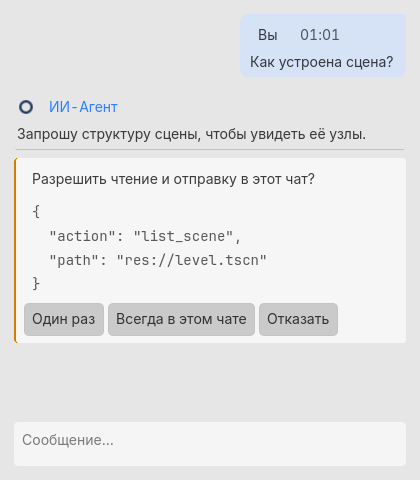
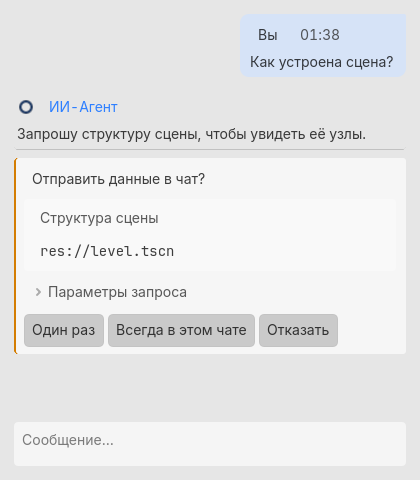
feat(editor): lead read requests with the operation and target

diff --git a/tests/py/live/test_panel_read_controls.py b/tests/py/live/test_panel_read_controls.py
@@ -40,7 +40,14 @@ func offer(id, pause=false):
     Consent.offer(self, {"chat_id": _current_chat_id, "id": id, "pause": pause, "action": {"action":"read_file","path":"res://hero.gd"}})
 func click(index):
     var card = _view._chat_container.get_child(-1)
-    assert("res://hero.gd" in card.find_child("RequestedAction", true, false).text)
+    assert(card.find_child("ReadTarget", true, false).text == "res://hero.gd")
+    var details = card.find_child("RequestedAction", true, false)
+    var toggle = card.find_child("ReadParameters", true, false)
+    assert(not details.visible)
+    var calls_before = http_request.calls.size()
+    toggle.button_pressed = true
+    assert(details.visible and JSON.parse_string(details.text).path == "res://hero.gd")
+    assert(http_request.calls.size() == calls_before)
     card.find_child("Choices", true, false).get_child(index).pressed.emit()
     _set_ui_busy(false)
     Consent.finish(self, true)

diff --git a/tests/py/panel_tf/source_inputs.py b/tests/py/panel_tf/source_inputs.py
@@ -140,12 +140,21 @@ D123_REVISIONS = {
 }
 
 
+D125_CONSENT = 'editor/native/agent_read_consent.gd'
+
+
 def revised_dock_fact(fact, current):
     prior = BUG_REGISTER_REVISIONS.get(fact['path'])
     if prior:
         if (fact['bytes'], fact['sha256']) != prior[:2]:
             raise ValueError('Pre-D123 start screen input drifted')
         fact = dict(fact, bytes=prior[2], sha256=prior[3])
+    if fact['path'] == D125_CONSENT:
+        old_size, old_sha, size, sha = D123_REVISIONS[D125_CONSENT]
+        if (fact['bytes'], fact['sha256']) != (old_size, old_sha):
+            raise ValueError('Original consent helper drifted')
+        return revised_bug_register_fact(dict(fact, bytes=size, sha256=sha), current, {D125_CONSENT: (
[1 lines of base64/hex data omitted]
     return revised_bug_register_fact(fact, current, D123_REVISIONS)
 
 

diff --git a/docs/WORKLOG.md b/docs/WORKLOG.md
@@ -303,3 +303,20 @@ D121 установлена; следующий шаг — отправить о
 
 Переоткрыть рабочий проект, начать диалог, затем открыть его по кнопке
 «Сохранённые чаты». Исправление истории (`85b28d1`) сохранено отдельно от вида панели.
+
+## D125 — проверка чтения по логу пользователя
+
+В `chat.txt` нашлись повторный `coin.gd` и неинформативная ошибка для каталога;
+исправлены оба случая. Запрос за концом файла остался успешной пустой страницей.
+Последнего медленного ответа в записи нет. На тестовых часах ответ с выделенным
+DONE до исправления завершался за 4,4 с, после — менее чем за 1,5 с. В отдельном
+Chrome длинный список с выделенным DONE прошёл проверку целостности; пропуск
+буквального префикса и 600 px необъяснимого отступа отклонены. Измерения без
+провайдера. Карточка чтения и раскрытие параметров проверены в настоящем Godot
+(3 теста). Журнал наблюдений: [расположение и поля](panel-diagnostics.md).
+
+`selfcheck` для `assistant.write`, `assistant.chat`, `project_text.read`: `ok` (unit/corpus: 43/4, 29/10, 38/35). Реальный CLI-клиент подтвердил подсказку для каталога и пустую страницу за EOF. Контракт (36 артефактов), безопасность, границы и размеры (706 файлов, два прежних предупреждения) проверены. EXE проверен на изолированном порту: 35 инструментов, чтение, предпросмотр без записи, штатная остановка.
+
+Совместный прогон browser/panel/channels/security, контракта навигации, фактов GDScript и transfer: 1545 passed, 2 skipped (Windows без права создания симлинков). В первом прогоне один тест диагностики подменял драйвер в устаревшем объекте модуля после replay; фикстура теперь использует тот же полный импорт, что шлюз. Исправление изоляции касается только тестов.
+
[1 lines of base64/hex data omitted]

diff --git a/docs/PROGRESS.md b/docs/PROGRESS.md
@@ -2,6 +2,8 @@
 
 ## Текущий статус (2026-11-27)
 
+- D125 установлен: исправлены повторы путей и подсказка для каталога, обновлена карточка разрешения. Воспроизведено лишнее ожидание при форматированном DONE. Установленный EXE сохранил [локальные измерения](panel-diagnostics.md) и восстановил чат после перезапуска на отдельном профиле. Следующее действие — сопоставить время следующей задержки в живом DeepSeek с `visible_done_ms` и `total_ms`.
+
 - D124 установлен: исправлен пустой [сохранённый диалог панели](porting/assistant.write.md). После полной остановки и повторного запуска EXE из сохранения вернулись запрос и ответ; проверено на отдельном профиле и локальном тестовом API. Старые пустые записи не перезаписываются миграцией.
 - Второй вариант панели D124: [«Мастерская проекта» — снимки из Godot](../.github/dock-preview/README.md). Чтобы увидеть её в проекте, переоткрыть редактор; кнопка «Сохранённые чаты» на главной открывает историю.
 

diff --git a/.github/dock-preview/README.md b/.github/dock-preview/README.md
@@ -2,6 +2,8 @@
 
 «Мастерская проекта»: на главной — схема узлов, сохранённые чаты и два входа в новый диалог. В переписке вопрос помещается в компактную плашку, а ответ занимает всю доступную ширину. Ниже — главная при 250 px и пример запроса чтения при 420 px, отрисованные в Godot 4.6.3 на тестовом диалоге.
 
+В карточке чтения сразу показаны операция и цель. «Параметры запроса» раскрывает точные аргументы до выбора разрешения.
+
 | Тёмная тема | Светлая тема |
 | --- | --- |
 | ![Главная, тёмная тема](dark-home.png) | ![Главная, светлая тема](light-home.png) |

diff --git a/docs/porting/TF5-panel-ui.md b/docs/porting/TF5-panel-ui.md
@@ -1,5 +1,10 @@
 # T-F.5 — нативный вход панели (2026-11-22)
 
+D125: в карточке разрешения сначала видны операция и цель, точные аргументы
+доступны до выбора через «Параметры запроса». Проверено в Godot: раскрытие не
+отправляет запрос, решения и отзыв работают; 250/420 px в обеих темах.
+[Актуальные снимки](../../.github/dock-preview/README.md).
+
 ## Цель и границы
 
 Мандат: `_start-prompt.TF5-panel-ui.md`. Только переключение `plugin.cfg`
